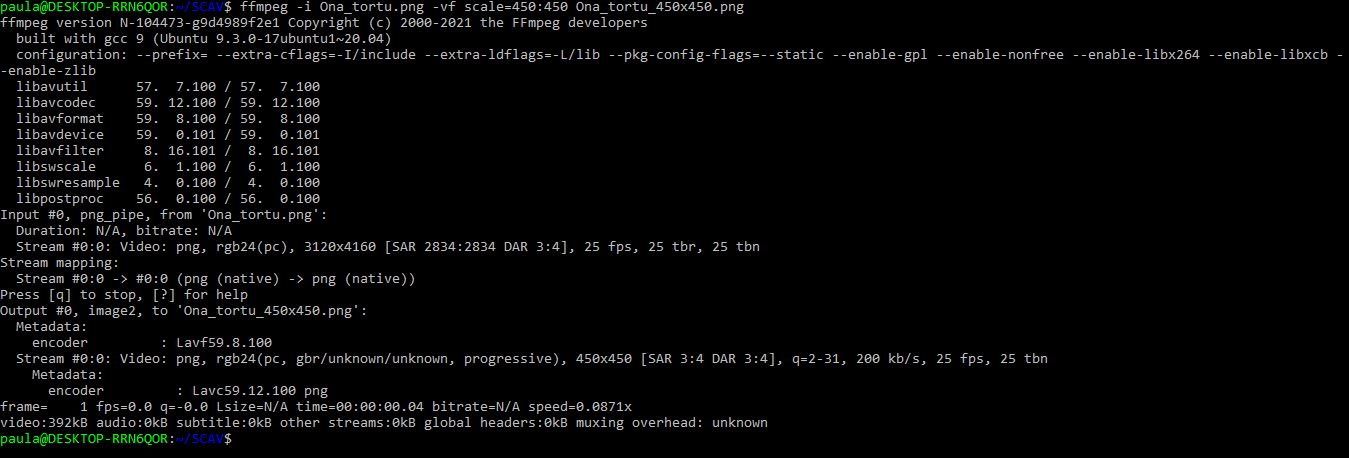
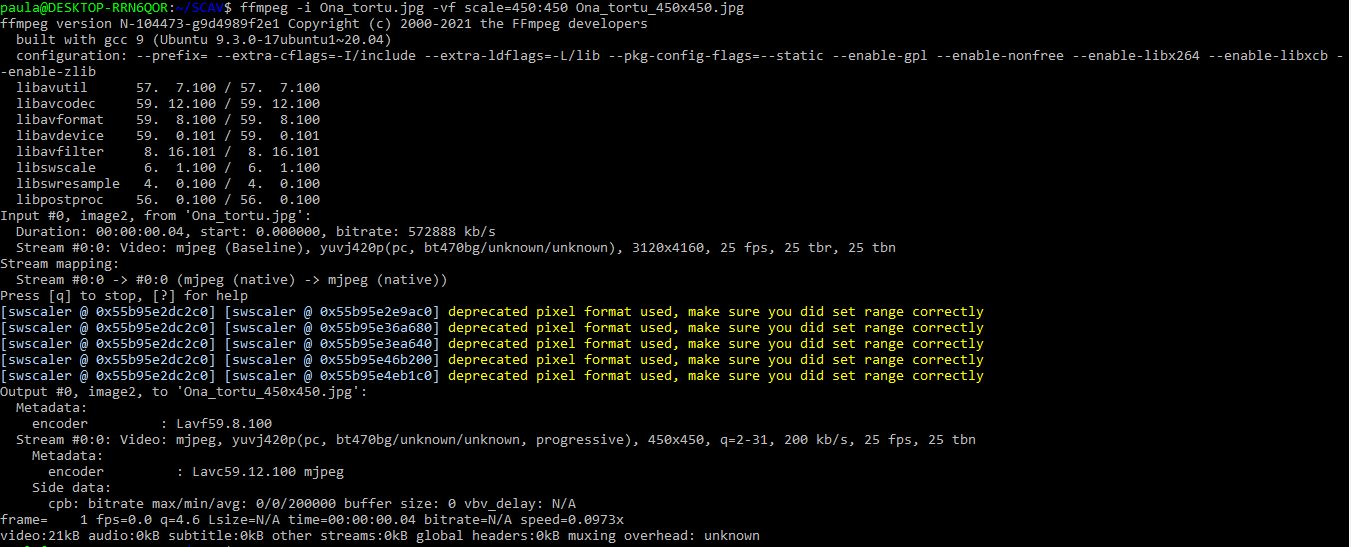
Update

Changed region(s): [[0.0, 0.0, 1.0, 1.0]]

diff --git a/ex4/ex4.py b/ex4/ex4.py
@@ -24,7 +24,15 @@ def runlengthencodeing(seq):
     return compressed
 
 def main():
-    seq = input('Seqüència:') #Demanem a l'usuari que introdueixi una seqüència
+    seq = input('Seqüència de 0 i 1:') #Demanem a l'usuari que introdueixi una seqüència
+    #Fem un for per assegurar que en la sqüència només hi ha 0s i 1s
+    for i in range(1, len(seq)):
+        if seq[i]!=0 or seq[i]!=1:
+            print('La seqüència no contè 0s i 1s, torna a introduir-la:')
+            break
+    #Tornem a demanar a l'usuari que introdueixi la seqüència
+    seq = input('Seqüència de 0 i 1:')
+
     list = runlengthencodeing(seq) #Cridem a la funció
 
     compressed_seq = '' #Creem una string buida

diff --git a/ex5/ex5.py b/ex5/ex5.py
@@ -3,14 +3,14 @@ import cv2
 import numpy as np
 
 def main():
-    image = 'Ona_tortu.png'
+    image = 'Ona_tortu.jpg'
     img = cv2.imread(image, 0) #Llegim la imatge en blanc i negre
     img_num = np.float32(img) #La passem a floats
     num_dct = cv2.dct(img_num) #Fem la DCT
-    cv2.imwrite('Ona_tortu_DCT.png', num_dct) #Guardem la imatge
+    cv2.imwrite('Ona_tortu_DCT.jpg', num_dct) #Guardem la imatge
 
     num_idct = cv2.idct(num_dct) #Fem la inversa, és a dir, decodifiquem
-    cv2.imwrite('Ona_tortu_IDCT.png', num_idct) #Guardem la imatge
+    cv2.imwrite('Ona_tortu_IDCT.jpg', num_idct) #Guardem la imatge
 
 if __name__=="__main__":
     main()
